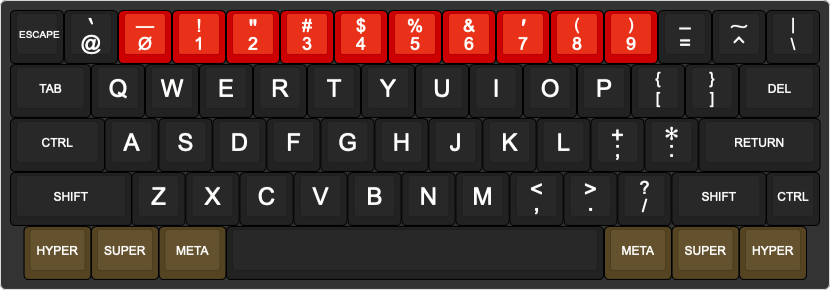
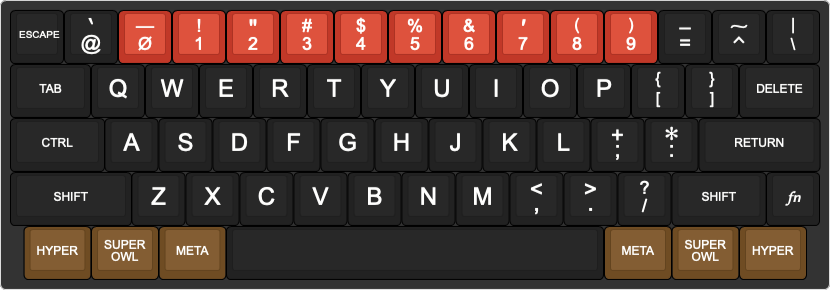
use KLE's WASD colours; fn key; delete in full; note owl

diff --git a/README.md b/README.md
@@ -452,4 +452,4 @@ tinted acrylic, so RGB backlights can shine through a little.
 
 [Beeb 75% ISO]: http://www.keyboard-layout-editor.com/##@_backcolor=#333333&name=beeb%2075%25%20ISO&author=Tony%20Finch%20(dot/@dotat.at)&css=*%20%7B%20font-family/:%20%22Arial%22/;%20%7D;&@_x:2&c=#ff0000&t=#ffffff&a:7&f:4;&=%F0%9D%91%93%C3%B8&=%F0%9D%91%931&=%F0%9D%91%932&=%F0%9D%91%933&=%F0%9D%91%934&=%F0%9D%91%935&=%F0%9D%91%936&=%F0%9D%91%937&=%F0%9D%91%938&=%F0%9D%91%939&_x:1&c=#222222&f:2;&=BREAK;&@=ESCAPE&_a:5&f:6;&=!%0A1&_fa@:9;;&=%22%0A2&_f:6;&=#%0A3&_f:6;&=$%0A4&_f:6;&=%25%0A5&_f:6;&=/&%0A6&_f:9&f2:6;&=%E2%80%B2%0A7&_f:5&f2:6;&=(%0A8&=)%0A9&_f:6;&=%E2%80%94%0A%C3%98&_f:7;&=%E2%80%93%0A/=&_f:6;&=%E2%81%93%0A%E2%8C%83&_a:7&f:3&w:2;&=DELETE&_c=#443322&f:9;&=%E2%A4%92;&@_c=#222222&f:3&w:1.5;&=TAB&_f:9;&=Q&=W&=E&=R&=T&=Y&=U&=I&=O&=P&_a:5&f:7;&=%E2%80%B5%0A/@&_f:5;&=%7B%0A%5B&_x:0.25&t=#000000&a:7&f:3&w:1.25&h:2&w2:1.5&h2:1&x2:-0.25;&=&_c=#443322&t=#ffffff&f:9;&=%E2%86%9F;&@_c=#222222&f:3&w:1.75;&=CTRL&_f:9;&=A&=S&=D&=F&=G&=H&=J&=K&=L&_a:5&f:8;&=+%0A/;&_fa@:6;;&=%E2%9C%BB%0A/:&_f:5;&=%7D%0A%5D&_x:1.25&c=#443322&a:7&f:9;&=%E2%86%A1;&@_c=#222222&f:3&w:1.25;&=SHIFT&_a:5&f:5;&=%7C%0A%5C&_a:7&f:9;&=Z&=X&=C&=V&=B&=N&=M&_a:5&f:8&f2:9;&=%3C%0A,&=%3E%0A.&_f:6;&=?%0A//&_a:7&f:3&w:1.75;&=SHIFT&_c=#443322&f:9;&=%E2%86%91&=%E2%A4%93;&@_f:3&w:1.25;&=FN&_w:1.25;&=OWL&_w:1.25;&=ALT&_c=#222222&w:6.25;&=&_c=#443322;&=ALT&=OWL&=MENU&_f:9;&=%E2%86%90&=%E2%86%93&=%E2%86%92
 
-[Beeb 60% HHKB]: http://www.keyboard-layout-editor.com/##@_backcolor=#333333&name=beeb%2060%25%20hhkb&author=Tony%20Finch%20(dot/@dotat.at)&css=*%20%7B%20font-family/:%20%22Arial%22/;%20%7D;&@_c=#222222&t=#ffffff&a:7&f:2;&=ESCAPE&_a:5&f:7;&=%E2%80%B5%0A/@&_c=#cc0000&f:6;&=%E2%80%94%0A%C3%98&=!%0A1&_f:9&f2:6;&=%22%0A2&_f:6;&=#%0A3&=$%0A4&=%25%0A5&=/&%0A6&_f:9&f2:6;&=%E2%80%B2%0A7&_f:5&f2:6;&=(%0A8&=)%0A9&_c=#222222&f:7;&=%E2%80%93%0A/=&_f:6;&=%E2%81%93%0A%E2%8C%83&_f:5;&=%7C%0A%5C;&@_a:7&f:3&w:1.5;&=TAB&_f:9;&=Q&=W&=E&=R&=T&=Y&=U&=I&=O&=P&_a:5&f:5;&=%7B%0A%5B&=%7D%0A%5D&_a:7&f:3&w:1.5;&=DEL;&@_w:1.75;&=CTRL&_f:9;&=A&=S&=D&=F&=G&=H&=J&=K&=L&_a:5&f:8;&=+%0A/;&_fa@:6;;&=%E2%9C%BB%0A/:&_a:7&f:3&w:2.25;&=RETURN;&@_w:2.25;&=SHIFT&_f:9;&=Z&=X&=C&=V&=B&=N&=M&_a:5&f:8&f2:9;&=%3C%0A,&=%3E%0A.&_f:6;&=?%0A//&_a:7&f:3&w:1.75;&=SHIFT&=CTRL;&@_x:0.25&c=#554422&w:1.25;&=HYPER&_w:1.25;&=SUPER&_w:1.25;&=META&_c=#222222&w:7;&=&_c=#554422&w:1.25;&=META&_w:1.25;&=SUPER&_w:1.25;&=HYPER
+[Beeb 60% HHKB]: http://www.keyboard-layout-editor.com/##@_backcolor=#333333&name=beeb%2060%25%20hhkb&author=Tony%20Finch%20(dot/@dotat.at)&css=*%20%7B%20font-family/:%20%22Arial%22/;%20%7D;&@_c=#222222&t=#ffffff&a:7&f:2;&=ESCAPE&_a:5&f:7;&=%E2%80%B5%0A/@&_c=#c13828&f:6;&=%E2%80%94%0A%C3%98&=!%0A1&_f:9&f2:6;&=%22%0A2&_f:6;&=#%0A3&=$%0A4&=%25%0A5&=/&%0A6&_f:9&f2:6;&=%E2%80%B2%0A7&_f:5&f2:6;&=(%0A8&=)%0A9&_c=#222222&f:7;&=%E2%80%93%0A/=&_f:6;&=%E2%81%93%0A%E2%8C%83&_f:5;&=%7C%0A%5C;&@_a:7&f:3&w:1.5;&=TAB&_f:9;&=Q&=W&=E&=R&=T&=Y&=U&=I&=O&=P&_a:5&f:5;&=%7B%0A%5B&=%7D%0A%5D&_a:7&f:3&w:1.5;&=DELETE;&@_w:1.75;&=CTRL&_f:9;&=A&=S&=D&=F&=G&=H&=J&=K&=L&_a:5&f:8;&=+%0A/;&_fa@:6;;&=%E2%9C%BB%0A/:&_a:7&f:3&w:2.25;&=RETURN;&@_w:2.25;&=SHIFT&_f:9;&=Z&=X&=C&=V&=B&=N&=M&_a:5&f:8&f2:9;&=%3C%0A,&=%3E%0A.&_f:6;&=?%0A//&_a:7&f:3&w:1.75;&=SHIFT&_f:5;&=%F0%9D%98%A7%F0%9D%98%AF;&@_x:0.25&c=#6f4c23&f:3&w:1.25;&=HYPER&_w:1.25;&=SUPER%20OWL&_w:1.25;&=META&_c=#222222&w:7;&=&_c=#6f4c23&w:1.25;&=META&_w:1.25;&=SUPER%20OWL&_w:1.25;&=HYPER
